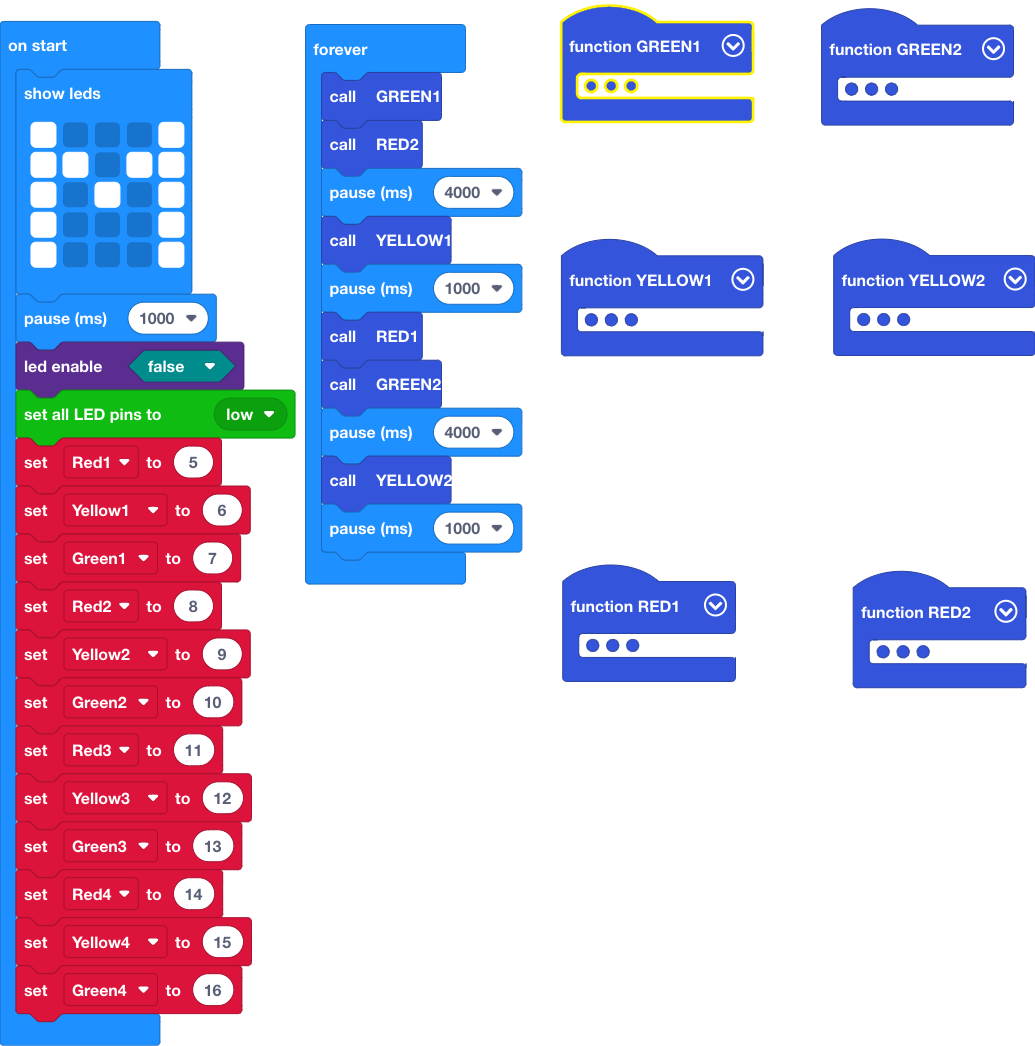
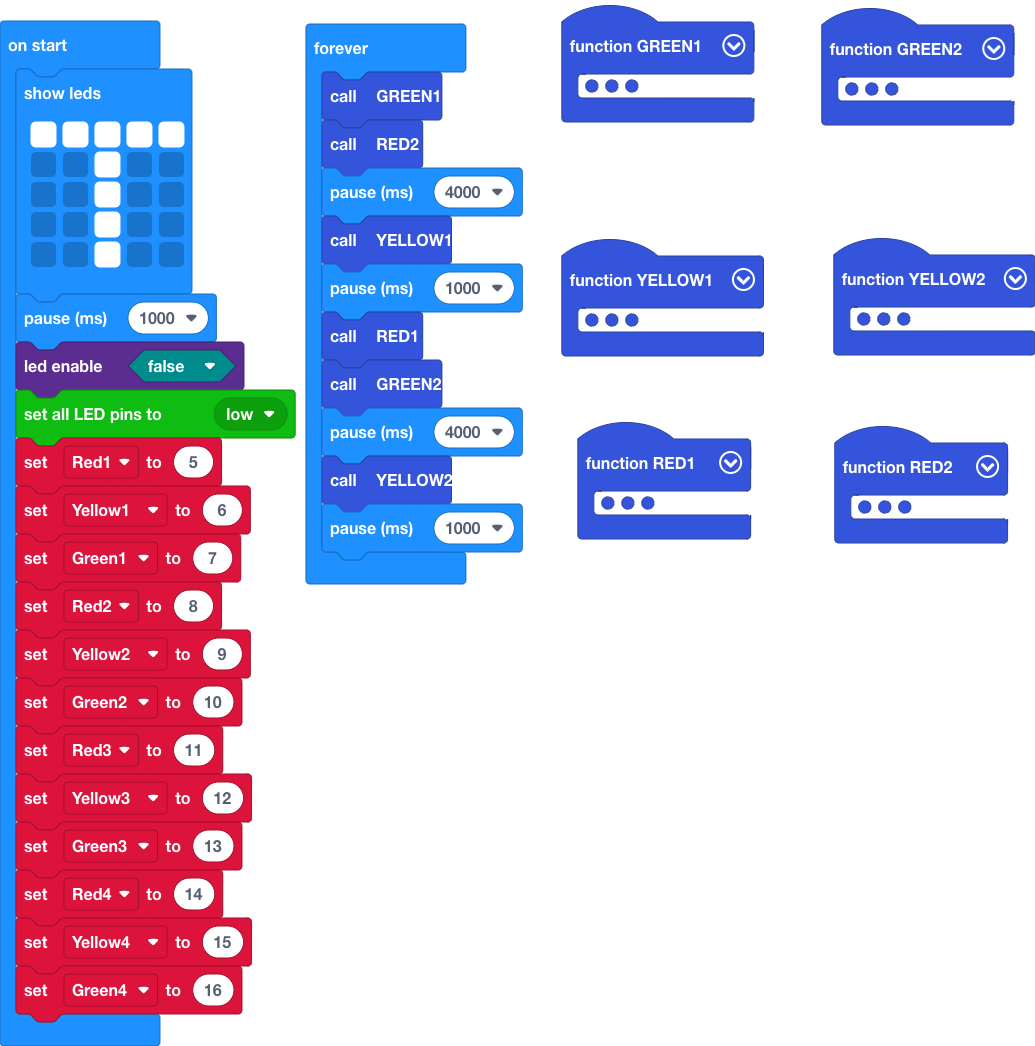
Clean up block location

diff --git a/main.ts b/main.ts
@@ -59,11 +59,11 @@ let Green1 = 0
 let Yellow1 = 0
 let Red1 = 0
 basic.showLeds(`
-    # . . . #
-    # # . # #
-    # . # . #
-    # . . . #
-    # . . . #
+    # # # # #
+    . . # . .
+    . . # . .
+    . . # . .
+    . . # . .
     `)
 basic.pause(1000)
 led.enable(false)
